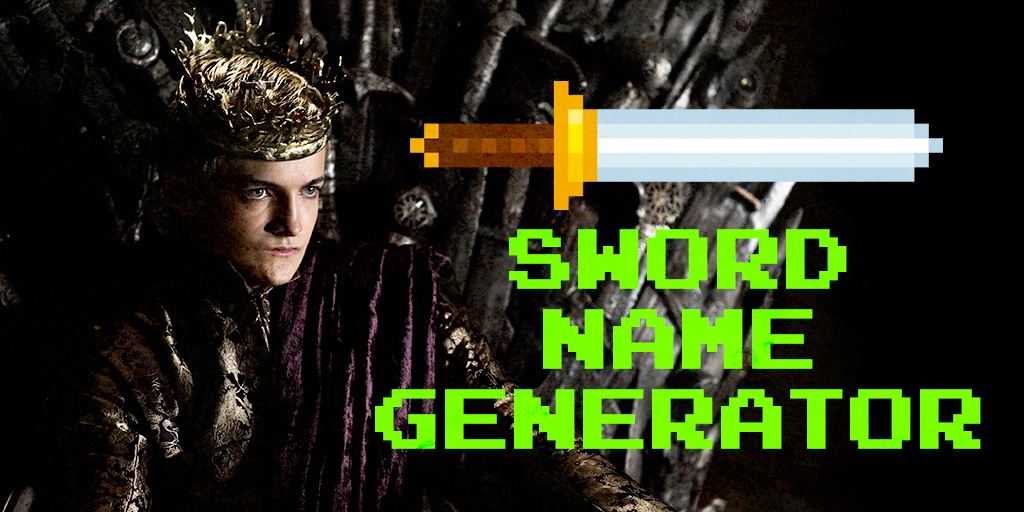
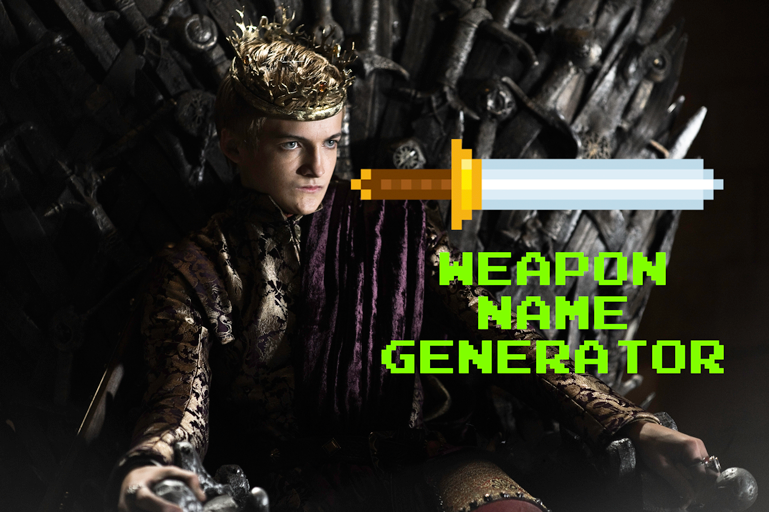
fixed share image and edited audio button

diff --git a/www/index.html b/www/index.html
@@ -163,7 +163,6 @@
             <div id="audio">
                 <button onClick="play_audio();">Play Audio</button>
             </div>
-
 <!--
         <audio controls="controls">
             <source src="game-of-thrones-8-bit.mp3" type="audio/mpeg">
@@ -329,6 +328,9 @@ $.getJSON('data.json', function(name_data) {
     if ( document.location.hash !== '' ) load_weapon(document.location.hash);
 
 });
+
+getElementById(audio).play();
+
 
 </script>
      <ul class="hide ra-share" id="ra-share-top">
